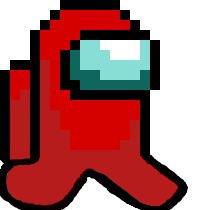
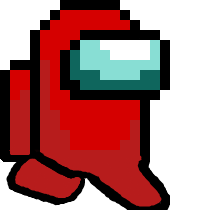
jump

Changed region(s): [[0.0, 0.7143, 0.9143, 1.0], [0.6571, 0.1429, 0.8286, 0.4857]]

diff --git a/index.py b/index.py
@@ -1,5 +1,5 @@
 #Main File
-skip_menu = False #SET TO TRUE TO SKIP MENU
+skip_menu = True #SET TO TRUE TO SKIP MENU
 ###Setup###
 
 import pygame
@@ -70,24 +70,47 @@ sus_sound.set_volume(0.05)
 v = 0 
 current_time = pygame.time.get_ticks()
 
+# def update_Movement(player):
+#         #moves the player around
+#         if pygame.key.get_pressed()[pygame.K_a]:
+#             if not player.falling and\
+#             len(list(pygame.sprite.groupcollide(player_group, tile_group, False, False).values())[0]) > 2:
+#                 player.hitting_left = True
+
+#             elif not player.hitting_left:
+#                 player.xpos -= 2
+#                 player.hitting_right = False
+
+#         if pygame.key.get_pressed()[pygame.K_d]:
+#             if not player.falling and\
+#             len(list(pygame.sprite.groupcollide(player_group, tile_group, False, False).values())[0]) > 2:
+#                 player.hitting_right = True
+            
+#             elif not player.hitting_right:
+#                 player.xpos += 2
+#                 player.hitting_left = False
+#         if pygame.key.get_pressed()[pygame.K_w] and not player.falling:
+#             player.ypos -= 250
+#             player.falling = True
+
 while True:
     window.blit(background, (0,0)) #Draw background (always first)
     tile_group = draw_tiles(display_map)
     tile_group.draw(window)
+    if len(pygame.sprite.groupcollide(player_group, tile_group, False, False)) == 0: #Floor collision check
+        amogus.ypos += 4
+        amogus.falling = True
+    else:
+        amogus.falling = False
 
-    
-    print(len(pygame.sprite.groupcollide(player_group, tile_group, False, False)))
-    if len(pygame.sprite.groupcollide(player_group, tile_group, False, False)) == 0:
-        amogus.ypos += 2
+    # if not amogus.falling and\
+    # len(list(pygame.sprite.groupcollide(player_group, tile_group, False, False).values())[0]) > 2:
+
+    #     print(len(list(pygame.sprite.groupcollide(player_group, tile_group, False, False).values())[0]))
 
     amogus.update_Movement()
-    amogus.rect.update(amogus.xpos, amogus.ypos, 64, 64)
-    
-    dt = pygame.time.get_ticks() - current_time
-        
-    # collision = pygame.sprite.spritecollide(amogus, tile_group, True)
-    # print(collision)
-
+    amogus.rect.update(amogus.xpos+15, amogus.ypos, 24, 64)  #The 15 offset makes falling cleaner
+    dt = pygame.time.get_ticks() - current_time 
 
     window.blit(amogus.getImage(), amogus.getPos())
     

diff --git a/player.py b/player.py
@@ -5,6 +5,9 @@ class player(pygame.sprite.Sprite):
     def __init__(self, spriteName, x=0, y=0):
         super().__init__()
         # Initiates position on the screen
+        self.falling = True
+        self.hitting_left = False
+        self.hitting_right = False
         self.xpos = x
         self.ypos = y
         # Initiates the sprite of the player FROM THE ASSETS DIRECTORY
@@ -37,7 +40,11 @@ class player(pygame.sprite.Sprite):
     def update_Movement(self):
         #moves the player around
         if pygame.key.get_pressed()[pygame.K_a]:
-            self.xpos -= 1
+                self.xpos -= 2
+
         if pygame.key.get_pressed()[pygame.K_d]:
-            self.xpos += 1
-        
+                self.xpos += 2
+                
+        if pygame.key.get_pressed()[pygame.K_w] and not self.falling:
+            self.ypos -= 250
+            self.falling = True
